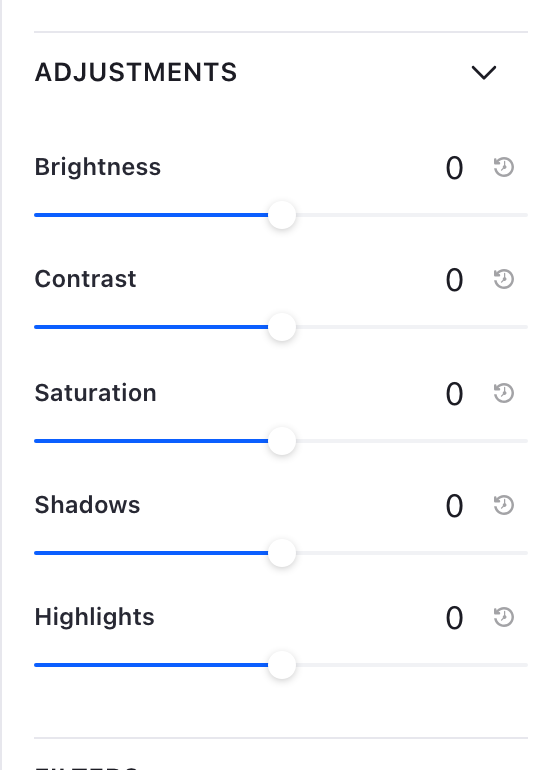
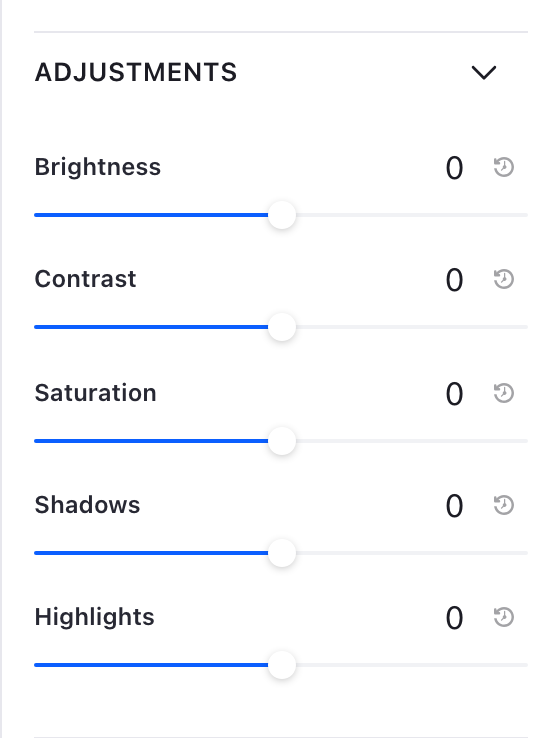
Stop the panel captures at the next panel's divider

diff --git a/presentation/index.html b/presentation/index.html
@@ -317,7 +317,7 @@
 									class="window"
 									src="screenshots/crop.png"
 									width="560"
-									height="580"
+									height="548"
 									style="max-width: min(100%, 280px)"
 									alt="The Crop and rotation panel: X position, Y position, width and height fields with a proportion lock between them, and a Straighten slider reading zero degrees."
 								/>
@@ -346,7 +346,7 @@
 									class="window"
 									src="screenshots/adjust.png"
 									width="560"
-									height="770"
+									height="738"
 									style="max-width: min(100%, 280px)"
 									alt="The Adjustments panel: brightness, contrast, saturation, shadows and highlights sliders, each reading zero with a reset button, and a Reset all button at the bottom."
 								/>
@@ -773,7 +773,7 @@
 								class="window"
 								src="screenshots/mobile-filters.png"
 									width="800"
-									height="386"
+									height="354"
 									style="max-width: min(100%, 400px)"
 								alt="The Filters panel on a narrow screen: filter cards in a single horizontal row with a paging arrow on each side."
 							/>
